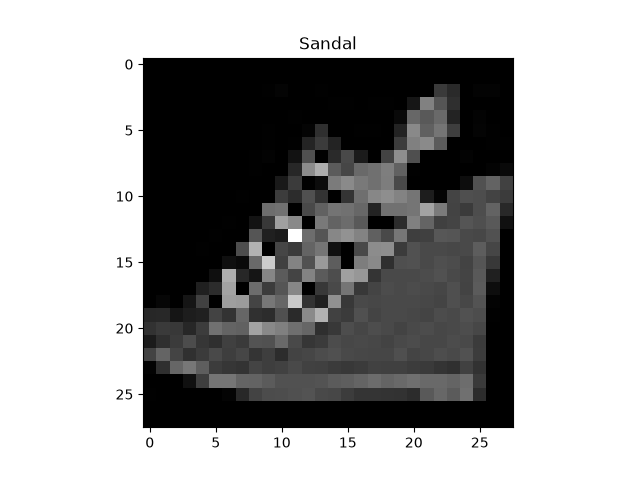
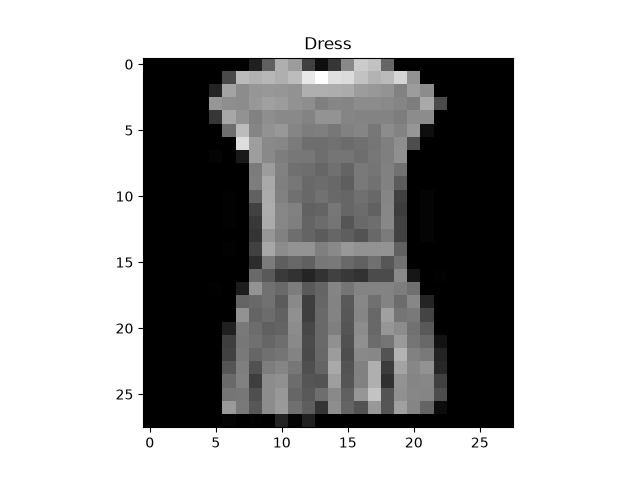
push from end of lab1

Changed region(s): [[0.2188, 0.0625, 0.8125, 0.9062]]

diff --git a/Lab1/train.py b/Lab1/train.py
@@ -1,14 +1,136 @@
-#provided by ELEC 475 teaching team
-from torchvision.datasets import FashionMNIST
+import argparse
+import datetime
+
+import matplotlib.pyplot as plt
+import torch
+import torch.nn as nn
+import torch.optim as optim
 import torchvision.transforms as transforms
+from torch.utils.data import DataLoader
+from torchinfo import summary
+from torchvision.datasets import FashionMNIST
 
-DATA_DIR = './data'
-transform = transforms.Compose([transforms.ToTensor()])
-train_set = FashionMNIST(DATA_DIR, train=True, download=True, transform=transform)
-test_set = FashionMNIST(DATA_DIR, train=False, download=True, transform=transform)
+from model import autoencoderMLP4Layer
 
-print('train:', len(train_set), 'test:', len(test_set))
-img, label = train_set[0]
-print('shape:', img.shape, 'dtype:', img.dtype)
-print('min:', img.min().item(), 'max:', img.max().item())
-print('raw dtype:', train_set.data.dtype, 'raw max:', train_set.data.max().item())
+DATA_DIR = './data'   # change if using Colab
+
+
+save_file = 'MLP.8.pth'
+n_epochs = 10
+batch_size = 256
+bottleneck_size = 32
+plot_file = 'loss.MLP.8.png'
+
+
+def train(n_epochs, optimizer, model, loss_fn, train_loader, scheduler, device,
+          save_file=None, plot_file=None):
+    print('training ...')
+    model.train()
+
+    losses_train = []
+    for epoch in range(1, n_epochs + 1):
+
+        print('epoch ', epoch)
+        loss_train = 0.0
+        for imgs, _ in train_loader:
+            imgs = imgs.view(imgs.shape[0], -1)
+            imgs = imgs.to(device=device)
+            outputs = model(imgs)
+
+            loss = loss_fn(outputs, imgs)
+            optimizer.zero_grad()
+            loss.backward()
+            optimizer.step()
+            loss_train += loss.item()
+
+        scheduler.step(loss_train)
+        losses_train += [loss_train / len(train_loader)]
+
+        print('{} Epoch {}, Training loss {}'.format(
+            datetime.datetime.now(), epoch, loss_train / len(train_loader)))
+
+        if save_file != None:
+            torch.save(model.state_dict(), save_file)
+
+        if plot_file != None:
+            plt.figure(2, figsize=(12, 7))
+            plt.clf()
+            plt.plot(losses_train, label='train')
+            plt.xlabel('epoch')
+            plt.ylabel('loss')
+            plt.legend(loc=1)
+            print('saving ', plot_file)
+            plt.savefig(plot_file)
+
+
+def init_weights(m):
+    if type(m) == nn.Linear:
+        nn.init.xavier_uniform_(m.weight)
+        m.bias.data.fill_(0.01)
+
+
+def main():
+    global bottleneck_size, save_file, n_epochs, batch_size, plot_file
+
+    print('running main ...')
+
+    argParser = argparse.ArgumentParser()
+    argParser.add_argument('-s', metavar='state', type=str, help='parameter file (.pth)')
+    argParser.add_argument('-z', metavar='bottleneck size', type=int, help='int [8]')
+    argParser.add_argument('-e', metavar='epochs', type=int, help='# of epochs [10]')
+    argParser.add_argument('-b', metavar='batch size', type=int, help='batch size [256]')
+    argParser.add_argument('-p', metavar='plot', type=str, help='output loss plot file (.png)')
+
+    args = argParser.parse_args()
+
+    if args.s != None:
+        save_file = args.s
+    if args.z != None:
+        bottleneck_size = args.z
+    if args.e != None:
+        n_epochs = args.e
+    if args.b != None:
+        batch_size = args.b
+    if args.p != None:
+        plot_file = args.p
+
+    print('\t\tbottleneck size = ', bottleneck_size)
+    print('\t\tn epochs = ', n_epochs)
+    print('\t\tbatch size = ', batch_size)
+    print('\t\tsave file = ', save_file)
+    print('\t\tplot file = ', plot_file)
+
+    device = 'cpu'
+    if torch.cuda.is_available():
+        device = 'cuda'
+    print('\t\tusing device ', device)
+
+    N_input = 28 * 28
+    N_output = N_input
+    model = autoencoderMLP4Layer(N_input=N_input, N_bottleneck=bottleneck_size, N_output=N_output)
+    model.to(device)
+    model.apply(init_weights)
+    summary(model, input_size=(1, N_input))
+
+    train_transform = transforms.Compose([transforms.ToTensor()])
+    train_set = FashionMNIST(DATA_DIR, train=True, download=False, transform=train_transform)
+    train_loader = DataLoader(train_set, batch_size=batch_size, shuffle=True)
+
+    optimizer = optim.Adam(model.parameters(), lr=1e-3, weight_decay=1e-5)
+    scheduler = optim.lr_scheduler.ReduceLROnPlateau(optimizer, 'min')
+    loss_fn = nn.MSELoss()
+
+    train(
+        n_epochs=n_epochs,
+        optimizer=optimizer,
+        model=model,
+        loss_fn=loss_fn,
+        train_loader=train_loader,
+        scheduler=scheduler,
+        device=device,
+        save_file=save_file,
+        plot_file=plot_file)
+
+
+if __name__ == '__main__':
+    main()

diff --git a/Lab1/visualize.py b/Lab1/visualize.py
@@ -1,5 +1,5 @@
-import matplotlib
-matplotlib.use('TkAgg')  # Must be defined first!
+#import matplotlib
+#matplotlib.use('TkAgg')  # Must be defined first!
 import matplotlib.pyplot as plt
 
 import torchvision.transforms as transforms
